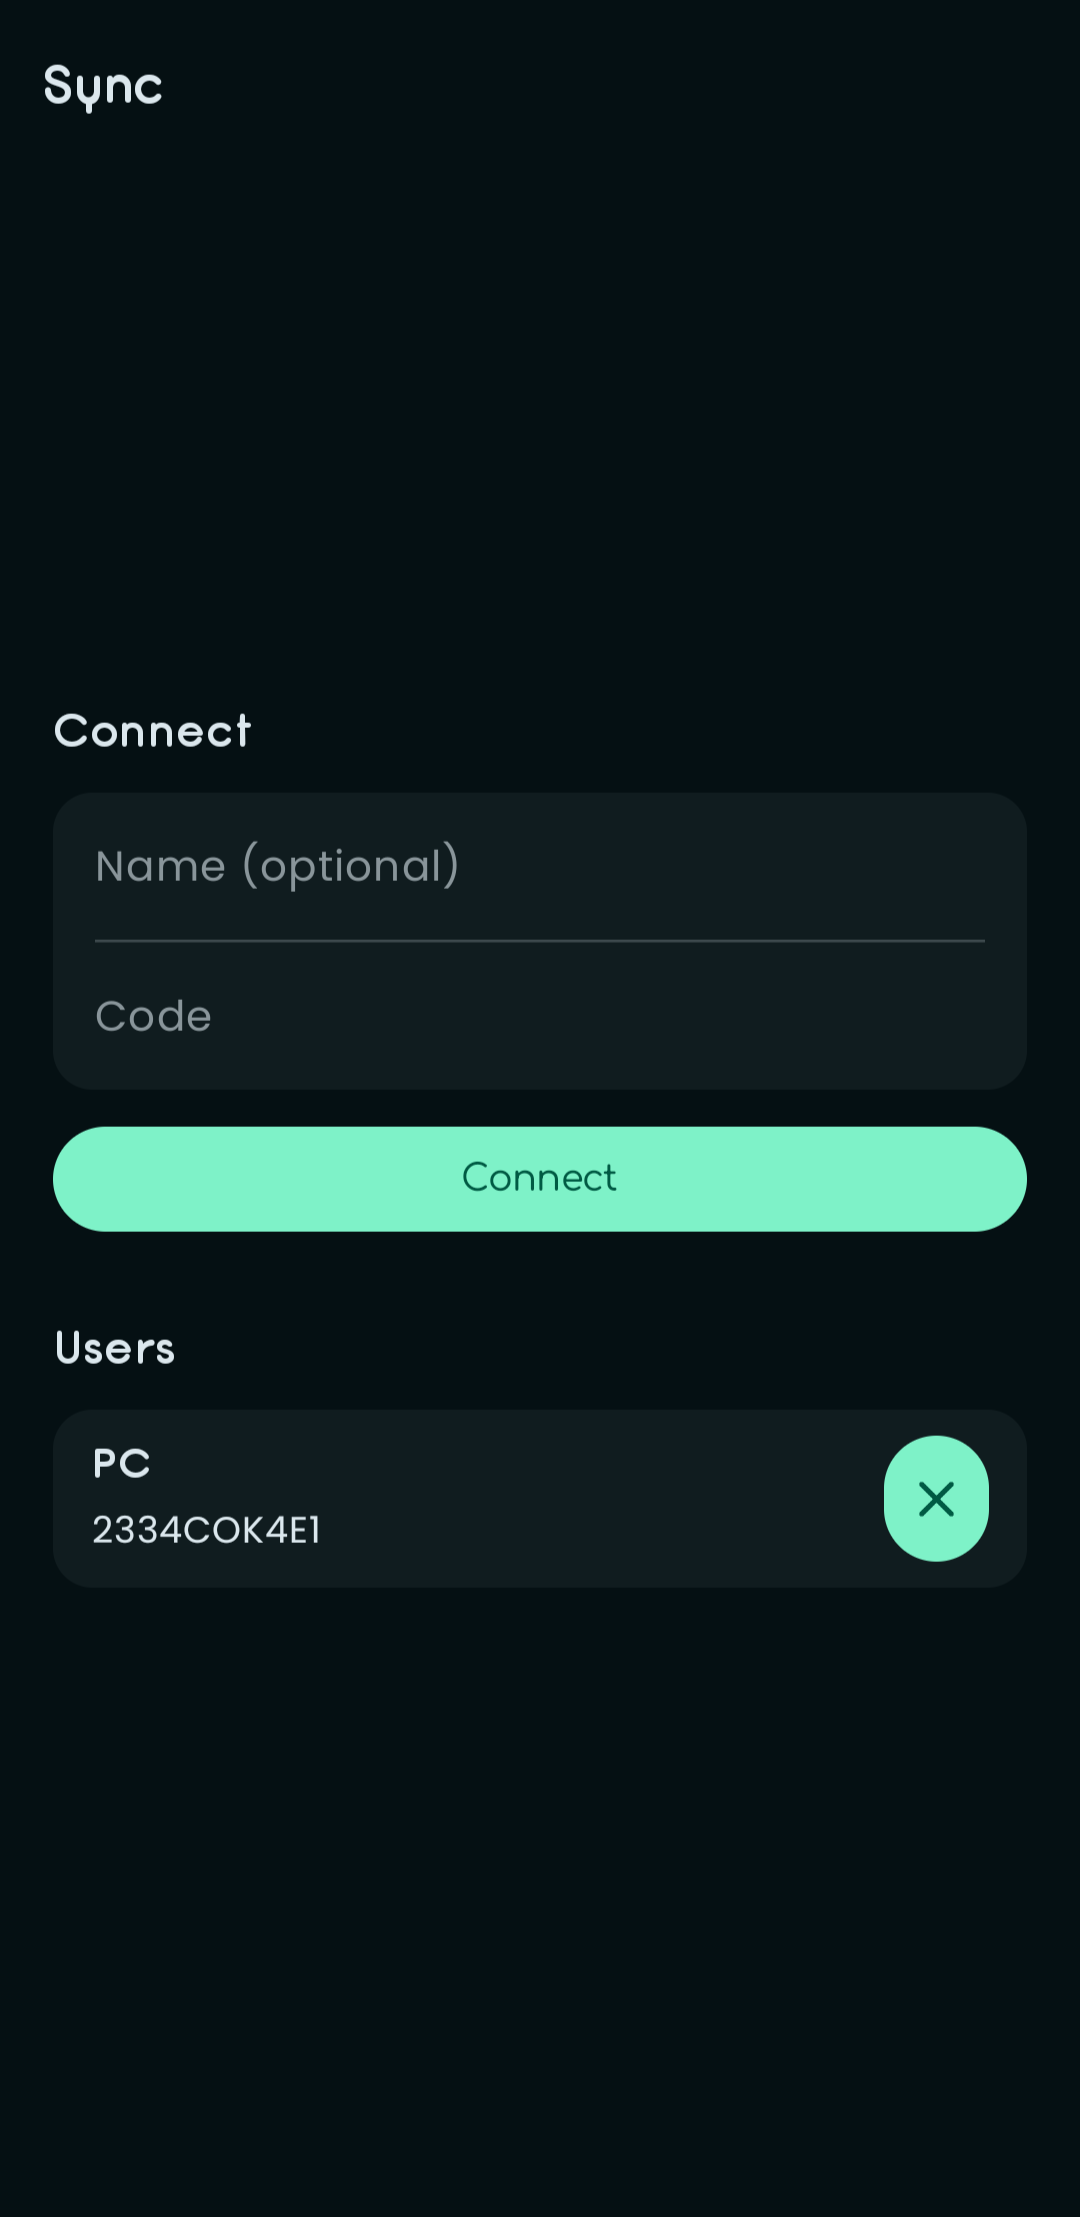
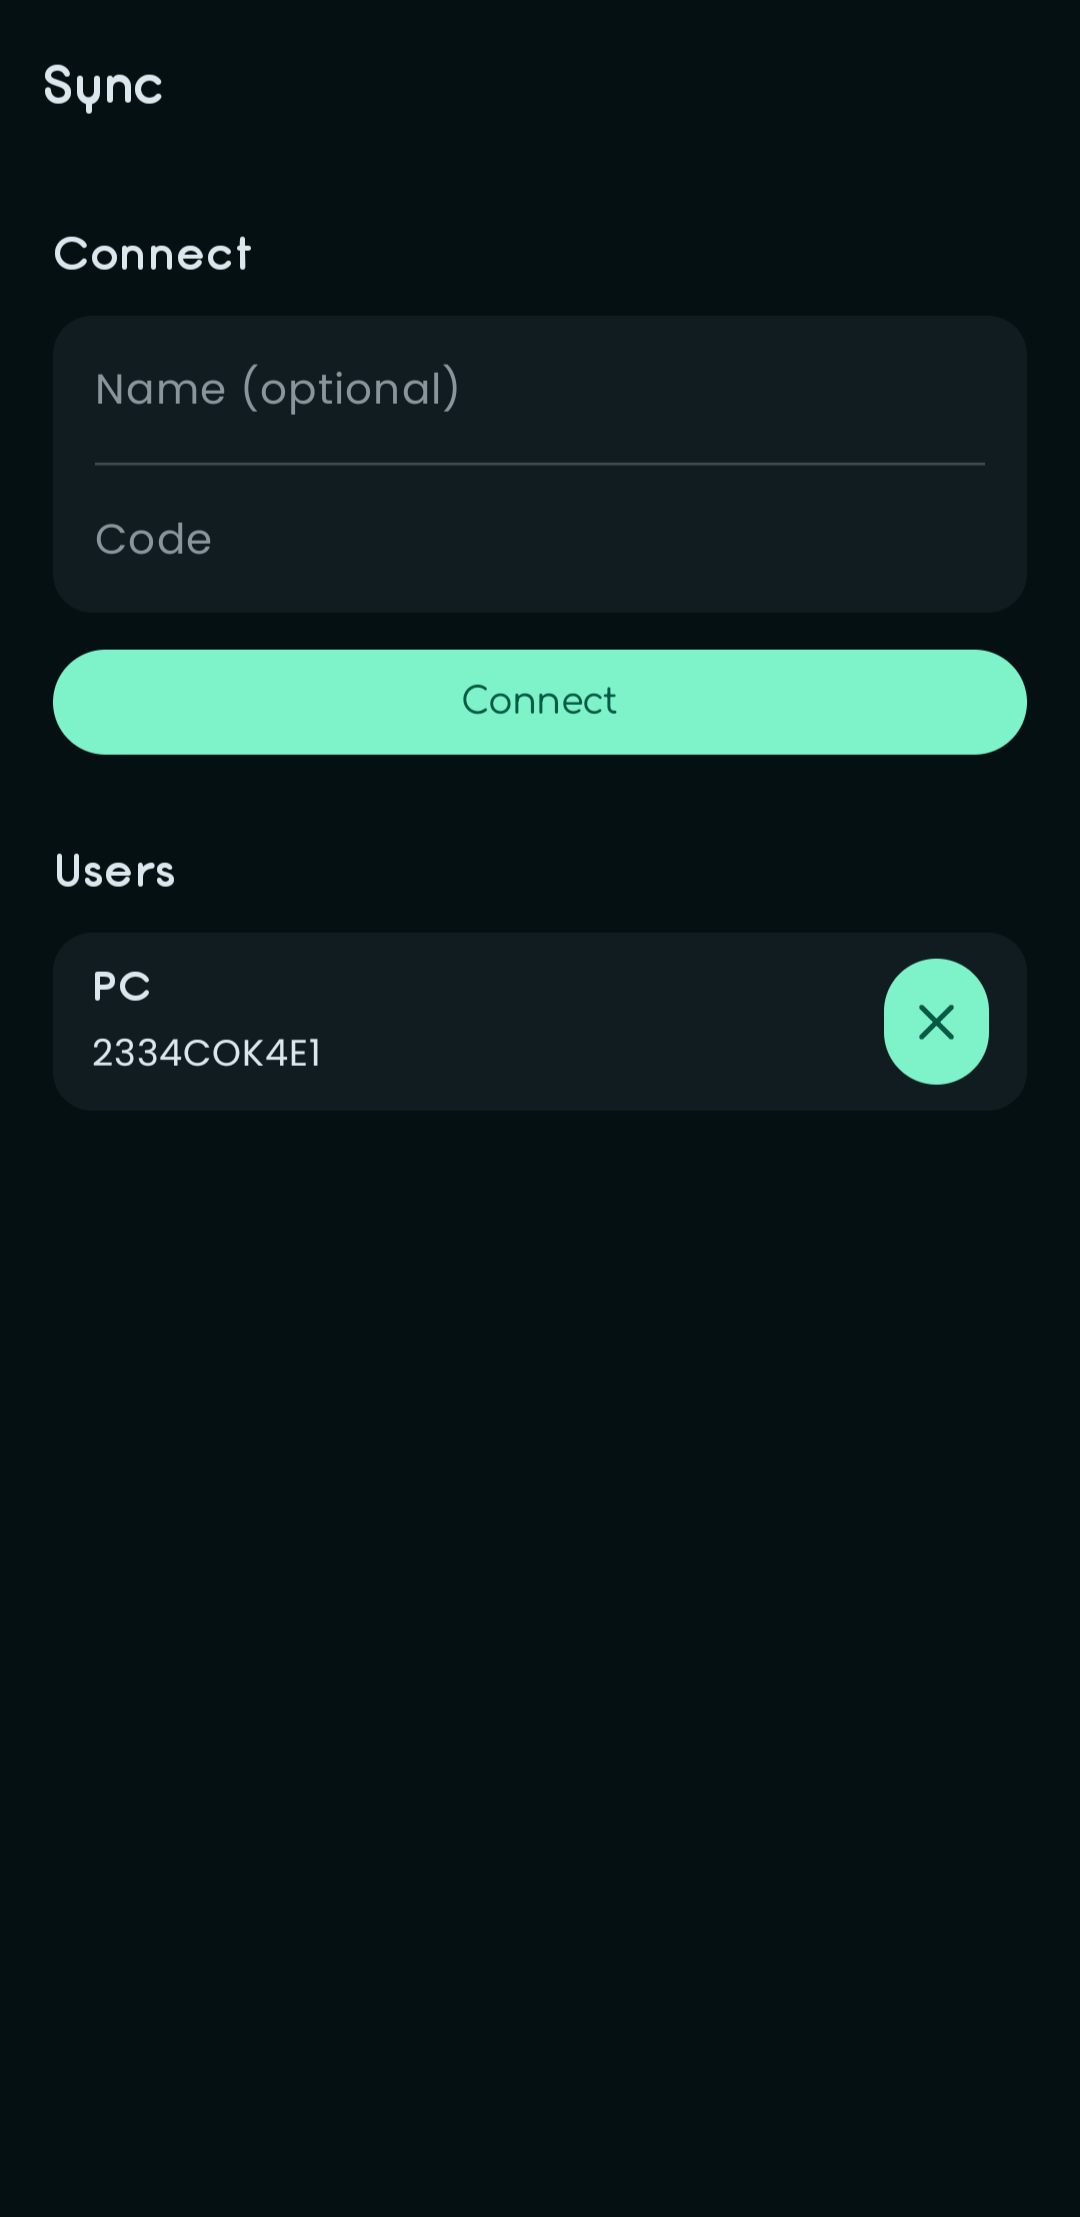
sync ui tweak

diff --git a/app/src/main/java/com/botpa/turbophotos/sync/SyncActivity.kt b/app/src/main/java/com/botpa/turbophotos/sync/SyncActivity.kt
@@ -1,21 +1,20 @@
 package com.botpa.turbophotos.sync
 
-import android.R
 import android.app.Activity
 import android.content.Intent
 import android.os.Bundle
+
 import androidx.activity.ComponentActivity
 import androidx.activity.compose.setContent
 import androidx.activity.enableEdgeToEdge
 import androidx.activity.viewModels
+import androidx.compose.foundation.layout.Arrangement
 import androidx.compose.foundation.layout.Column
 import androidx.compose.foundation.layout.IntrinsicSize
 import androidx.compose.foundation.layout.PaddingValues
 import androidx.compose.foundation.layout.Row
-import androidx.compose.foundation.layout.Spacer
 import androidx.compose.foundation.layout.WindowInsets
 import androidx.compose.foundation.layout.WindowInsetsSides
-import androidx.compose.foundation.layout.asPaddingValues
 import androidx.compose.foundation.layout.fillMaxHeight
 import androidx.compose.foundation.layout.fillMaxWidth
 import androidx.compose.foundation.layout.height
@@ -23,7 +22,6 @@ import androidx.compose.foundation.layout.only
 import androidx.compose.foundation.layout.padding
 import androidx.compose.foundation.layout.safeDrawing
 import androidx.compose.foundation.layout.size
-import androidx.compose.foundation.layout.width
 import androidx.compose.foundation.layout.windowInsetsPadding
 import androidx.compose.foundation.lazy.LazyColumn
 import androidx.compose.foundation.lazy.itemsIndexed
@@ -36,14 +34,13 @@ import androidx.compose.material3.TextField
 import androidx.compose.material3.TextFieldDefaults
 import androidx.compose.runtime.Composable
 import androidx.compose.runtime.LaunchedEffect
-import androidx.compose.runtime.rememberCoroutineScope
 import androidx.compose.ui.Alignment
 import androidx.compose.ui.Modifier
 import androidx.compose.ui.graphics.Color
-import androidx.compose.ui.platform.LocalContext
 import androidx.compose.ui.unit.dp
 import androidx.compose.ui.unit.sp
 import androidx.lifecycle.Observer
+
 import com.botpa.turbophotos.gallery.views.Group
 import com.botpa.turbophotos.gallery.views.GroupDivider
 import com.botpa.turbophotos.gallery.views.GroupItems
@@ -53,12 +50,12 @@ import com.botpa.turbophotos.gallery.views.groupItemPaddingHorizontal
 import com.botpa.turbophotos.gallery.views.groupItemPaddingVertical
 import com.botpa.turbophotos.settings.SettingsPairs
 import com.botpa.turbophotos.sync.SyncEventBus.Companion.instance
-import com.botpa.turbophotos.sync.User
 import com.botpa.turbophotos.theme.CoonTheme
 import com.botpa.turbophotos.theme.FONT_COMFORTAA
 import com.botpa.turbophotos.theme.FONT_POPPINS
 import com.botpa.turbophotos.util.Orion
 import com.botpa.turbophotos.util.Storage
+
 import java.util.Locale
 
 class SyncActivity : ComponentActivity() {
@@ -123,9 +120,6 @@ class SyncActivity : ComponentActivity() {
                 .padding(horizontal = 20.dp)
                 .windowInsetsPadding(WindowInsets.safeDrawing.only(WindowInsetsSides.Bottom))
         ) {
-            //Spacer to center content
-            Spacer(modifier = Modifier.weight(1f))
-
             //Connect
             Group {
                 //Title
@@ -297,9 +291,6 @@ class SyncActivity : ComponentActivity() {
                     }
                 }
             }
-
-            //Spacer to center content
-            Spacer(modifier = Modifier.weight(1f))
         }
     }
 
